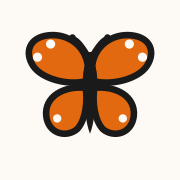
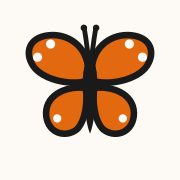
Refine monarch butterfly: upright antennae, smaller map pin
Redraw the antennae so they rise upright and pulled in toward the body
instead of splaying out toward the wings, and shrink the community map
marker from 42px to 34px so it sits better next to the green pod. Applied
to both the map marker (milkweed-butterfly.svg) and the tab logo
(icon.svg) to keep the artwork identical; favicon.ico and apple-icon.png
regenerated to match.

Changed region(s): [[0.3889, 0.1389, 0.6111, 0.3056]]

diff --git a/components/MilkweedMap.tsx b/components/MilkweedMap.tsx
@@ -22,9 +22,9 @@ const officialIcon = L.icon({ iconUrl: "/images/milkweed-marker.svg", ...POD_SHA
 // than pointing at an exact spot.
 const communityIcon = L.icon({
   iconUrl: "/images/milkweed-butterfly.svg",
-  iconSize: [42, 42] as [number, number],
-  iconAnchor: [21, 21] as [number, number],
-  popupAnchor: [0, -18] as [number, number],
+  iconSize: [34, 34] as [number, number],
+  iconAnchor: [17, 17] as [number, number],
+  popupAnchor: [0, -15] as [number, number],
 });
 
 // Chicago, home base of the movement — sensible default center when pins